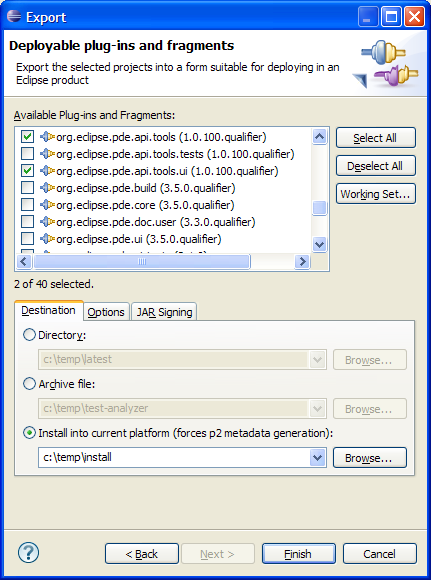
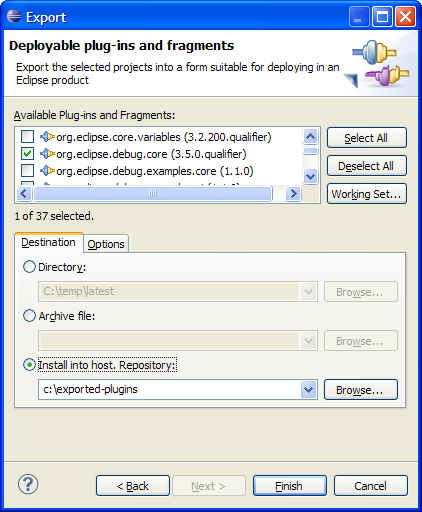
what's new?

diff --git a/bundles/org.eclipse.pde.doc.user/whatsNew/pde_whatsnew.htm b/bundles/org.eclipse.pde.doc.user/whatsNew/pde_whatsnew.htm
@@ -32,16 +32,6 @@ tr {vertical-align: top;}
     <td valign="top">PDE has added declarative services tooling to help author service component definitions.
       <p><img src="images/pde-ds.png" alt="Declarative Services Editor"></p></td>
   </tr>
-  <tr id="pde-ds">
-    <td valign="top" align="left"><b>Improved declarative services tooling</b></td>
-    <td valign="top">Tooling for OSGi declarative services has been improved:
-      <ul>
-          <li>Improved and more intuitive icons and overlays</li>
-        <li>Enhanced validation and error reporting</li>
-        <li>Source editing and code completion enhancements</li>
-      </ul>
-      <p><img src="images/pde-ds-editor.png" alt="Declarative Services Editor"></p></td>
-  </tr>
   <tr id="pde.ds">
     <td valign="top" align="left"><b>DS Tooling enhancements</b></td>
     <td valign="top"><p>The OSGi Declarative Services (DS) tooling has been
@@ -50,12 +40,6 @@ tr {vertical-align: top;}
         <p>A new template based on a simple dictionary service has been added to 
           showcase Declarative Services tooling. </p>
       <p><img src="images/dstemplate.png" alt="DS Template"></p></td>
-  </tr>
-  <tr id="pde.ds">
-    <td valign="top" align="left"><b>Declarative services tooling</b></td>
-    <td valign="top"><p>The declarative services tooling now supports the latest OSGi declarative services specification (1.1) update.
-      </p>
-        <p><img src="images/ds11.png" alt="Declarative Services Tooling"></p></td>
   </tr>
   <tr id="pde-logview">
     <td align="left" valign="top"><b>Jump to Console from stacktrace</b></td>
@@ -124,15 +108,13 @@ tr {vertical-align: top;}
     <td colspan="2"><h2><a name="Export">Export </a></h2></td>
   </tr>
   <tr id="exportInstall">
-    <td valign="top" align="left"><b>Single-click export and install  into running platform</b></td>
-    <td valign="top"><p>PDE has enhanced bundle and feature export to install the 
-      resulting exported bundles/feature into the currently running workbench. This makes it simpler to run and 
-      test your latest code. Choose &quot;Install into current platform&quot; when exporting and 
-      specify a location where p2 metadata can be created. You will be prompted to restart your 
+    <td valign="top" align="left"><b>Export and install  into running platform</b></td>
+    <td valign="top"><p>It's simple to run and test your latest code by exporting and install plug-ins and features directly into the running workbench. Choose &quot;Install into host &quot; when exporting and 
+      specify a path in the local file system where exported artifacts can be stored (repository). You will be prompted to restart your 
       workspace after export and install is complete. </p>
         <p><img src="images/click-install.png" alt="Export Wizard"></p>
-      <p>The patched bundles will appear in the platform's installed software list, and can also be uninstalled.</p>
-      <p><img src="images/installed.png" alt="Installation Information Dialog" width="428" height="404" ></p>
+      <p>The patched plug-ins will appear in the installed software list and can also be uninstalled.</p>
+      <p><img src="images/installed.png" alt="Installation Information Dialog"></p>
       <p>&nbsp; </p></td>
   </tr>
   <tr id="pde-binary-cycles">
@@ -299,8 +281,7 @@ tr {vertical-align: top;}
     <td valign="top"><p>PDE/Build will now replace the ".qualifier" on the version specified in a .product file used
       in a product build.  Set the property <b><tt>p2.product.qualifier</tt></b> to be the qualifier you wish to use.
       </p>
-        <p>If no value is specified, the default will be either the value of <tt>forceContextQualifier</tt> or the default timestamp.</p>
-    </td>
+        <p>If no value is specified, the default will be either the value of <tt>forceContextQualifier</tt> or the default timestamp.</p>    </td>
   </tr>
 
   <tr id="pde-build-fetch">
